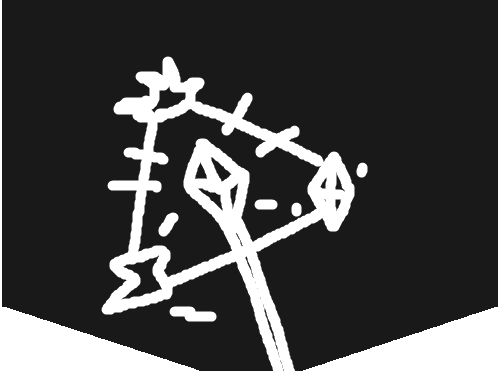
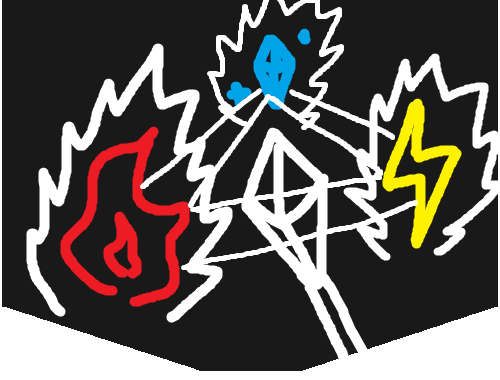
添加若干卡牌

Changed region(s): [[0.03, 0.0, 1.0, 0.9842]]

diff --git a/src/main/java/hatmagicianmod/cards/MorningAnger.java b/src/main/java/hatmagicianmod/cards/MorningAnger.java
@@ -14,6 +14,7 @@ import com.megacrit.cardcrawl.monsters.AbstractMonster;
 import com.megacrit.cardcrawl.powers.AbstractPower;
 import com.megacrit.cardcrawl.powers.VulnerablePower;
 import hatmagicianmod.helpers.ModHelper;
+import hatmagicianmod.powers.TempStrengthPower;
 
 import java.util.ArrayList;
 
@@ -29,7 +30,7 @@ public class MorningAnger extends CustomCard {
         String name = "MorningAnger";
         ID = ModHelper.makeID(name);
         CARD_STRINGS = CardCrawlGame.languagePack.getCardStrings(ID);
-        IMG_PATH = ModHelper.makeCardImgPath(TYPE, "Beta");
+        IMG_PATH = ModHelper.makeCardImgPath(TYPE, name);
     }
 
     public MorningAnger() {
@@ -53,7 +54,7 @@ public class MorningAnger extends CustomCard {
         ArrayList<AbstractPower> tmp_list = new ArrayList<>();
 
         for (AbstractPower p : player.powers) {
-            if (p.ID.equals(ModHelper.makeID("TempStrengthPower"))) {
+            if (p.ID.equals(TempStrengthPower.POWER_ID)) {
                 p.amount = -p.amount;
                 tmp_list.add(p);
             }
@@ -73,7 +74,7 @@ public class MorningAnger extends CustomCard {
         ArrayList<AbstractPower> tmp_list = new ArrayList<>();
 
         for (AbstractPower p : player.powers) {
-            if (p.ID.equals(ModHelper.makeID("TempStrengthPower"))) {
+            if (p.ID.equals(TempStrengthPower.POWER_ID)) {
                 p.amount = -p.amount;
                 tmp_list.add(p);
             }

diff --git a/src/main/java/hatmagicianmod/cards/SleepTalk.java b/src/main/java/hatmagicianmod/cards/SleepTalk.java
@@ -13,6 +13,7 @@ import com.megacrit.cardcrawl.powers.AbstractPower;
 import com.megacrit.cardcrawl.vfx.combat.ShockWaveEffect;
 import hatmagicianmod.characters.MyCharacter;
 import hatmagicianmod.helpers.ModHelper;
+import hatmagicianmod.powers.TempStrengthPower;
 
 import java.util.ArrayList;
 
@@ -30,7 +31,7 @@ public class SleepTalk extends CustomCard {
         String name = "SleepTalk";
         ID = ModHelper.makeID(name);
         CARD_STRINGS = CardCrawlGame.languagePack.getCardStrings(ID);
-        IMG_PATH = ModHelper.makeCardImgPath(TYPE, "Beta");
+        IMG_PATH = ModHelper.makeCardImgPath(TYPE, name);
     }
 
     public SleepTalk() {
@@ -55,7 +56,7 @@ public class SleepTalk extends CustomCard {
         ArrayList<AbstractPower> tmp_list = new ArrayList<>();
 
         for (AbstractPower p : player.powers) {
-            if (p.ID.equals(ModHelper.makeID("TempStrengthPower"))) {
+            if (p.ID.equals(TempStrengthPower.POWER_ID)) {
                 p.amount = -p.amount;
                 tmp_list.add(p);
             }
@@ -74,7 +75,7 @@ public class SleepTalk extends CustomCard {
         ArrayList<AbstractPower> tmp_list = new ArrayList<>();
 
         for (AbstractPower p : player.powers) {
-            if (p.ID.equals(ModHelper.makeID("TempStrengthPower"))) {
+            if (p.ID.equals(TempStrengthPower.POWER_ID)) {
                 p.amount = -p.amount;
                 tmp_list.add(p);
             }

diff --git a/src/main/java/hatmagicianmod/actions/RapidColdAction.java b/src/main/java/hatmagicianmod/actions/RapidColdAction.java
@@ -59,10 +59,10 @@ public class RapidColdAction extends AbstractGameAction {
                 Iterator<AbstractCard> c = this.p.exhaustPile.group.iterator();
 
                 while(c.hasNext()) {
-                    AbstractCard derp = (AbstractCard)c.next();
-                    if (derp.cardID.equals("Exhume") || !Charge.checkCardTag(derp)) {
+                    AbstractCard cache_c = (AbstractCard)c.next();
+                    if (!Charge.checkCardTag(cache_c)) {
                         c.remove();
-                        this.cache_cards.add(derp);
+                        this.cache_cards.add(cache_c);
                     }
                 }
 

diff --git a/src/main/java/hatmagicianmod/cards/BlearyEyed.java b/src/main/java/hatmagicianmod/cards/BlearyEyed.java
@@ -22,14 +22,14 @@ public class BlearyEyed extends CustomCard {
         String name = "BlearyEyed";
         ID = ModHelper.makeID(name);
         CARD_STRINGS = CardCrawlGame.languagePack.getCardStrings(ID);
-        IMG_PATH = ModHelper.makeCardImgPath(TYPE, "Beta");
+        IMG_PATH = ModHelper.makeCardImgPath(TYPE, name);
     }
 
     public BlearyEyed() {
         super(ID, CARD_STRINGS.NAME, IMG_PATH, COST, CARD_STRINGS.DESCRIPTION, TYPE, ModHelper.color(), CardRarity.UNCOMMON, CardTarget.SELF);
         this.tags.add(MyCharacter.PlayerCardTags.HAT_MAGICIAN_SLEEP);
         this.cardsToPreview = new IsSleep();
-        this.magicNumber = this.baseMagicNumber = 2;
+        this.magicNumber = this.baseMagicNumber = 1;
     }
 
     @Override
@@ -42,6 +42,6 @@ public class BlearyEyed extends CustomCard {
 
     @Override
     public void use(AbstractPlayer p, AbstractMonster m) {
-        this.addToBot(new DrawCardAction(2, new BlearyEyedAction(this.magicNumber)));
+        this.addToBot(new DrawCardAction(this.magicNumber, new BlearyEyedAction(2)));
     }
 }

diff --git a/src/main/java/hatmagicianmod/cards/Kite.java b/src/main/java/hatmagicianmod/cards/Kite.java
@@ -29,6 +29,7 @@ public class Kite extends CustomCard {
         super(ID, CARD_STRINGS.NAME, IMG_PATH, COST, CARD_STRINGS.DESCRIPTION, TYPE, ModHelper.color(), CardRarity.COMMON, CardTarget.SELF);
         this.cardsToPreview = new BlankBrand();
         this.block = this.baseBlock = 6;
+        this.magicNumber = this.baseMagicNumber = 1;
     }
 
     @Override
@@ -43,6 +44,6 @@ public class Kite extends CustomCard {
     public void use(AbstractPlayer p, AbstractMonster m) {
         this.addToBot(new GainBlockAction(p, this.block));
         AbstractCard card = new BlankBrand();
-        this.addToBot(new MakeTempCardInHandAction(card));
+        this.addToBot(new MakeTempCardInHandAction(card, this.magicNumber));
     }
 }

diff --git a/src/main/java/hatmagicianmod/cards/Doze.java b/src/main/java/hatmagicianmod/cards/Doze.java
@@ -23,7 +23,7 @@ public class Doze extends CustomCard {
         String name = "Doze";
         ID = ModHelper.makeID(name);
         CARD_STRINGS = CardCrawlGame.languagePack.getCardStrings(ID);
-        IMG_PATH = ModHelper.makeCardImgPath(TYPE, "Beta");
+        IMG_PATH = ModHelper.makeCardImgPath(TYPE, name);
     }
 
     public Doze() {

diff --git a/src/main/java/hatmagicianmod/cards/Improvise.java b/src/main/java/hatmagicianmod/cards/Improvise.java
@@ -25,7 +25,7 @@ public class Improvise extends CustomCard {
         String name = "Improvise";
         ID = ModHelper.makeID(name);
         CARD_STRINGS = CardCrawlGame.languagePack.getCardStrings(ID);
-        IMG_PATH = ModHelper.makeCardImgPath(TYPE, "Beta");
+        IMG_PATH = ModHelper.makeCardImgPath(TYPE, name);
     }
 
     public Improvise() {

diff --git a/src/main/java/hatmagicianmod/cards/IsSleep.java b/src/main/java/hatmagicianmod/cards/IsSleep.java
@@ -20,7 +20,7 @@ public class IsSleep extends CustomCard {
         String name = "IsSleep";
         ID = ModHelper.makeID(name);
         CARD_STRINGS = CardCrawlGame.languagePack.getCardStrings(ID);
-        IMG_PATH = ModHelper.makeCardImgPath(TYPE, "Beta");
+        IMG_PATH = ModHelper.makeCardImgPath(TYPE, name);
     }
 
     public IsSleep() {

diff --git a/src/main/java/hatmagicianmod/cards/Nightmare.java b/src/main/java/hatmagicianmod/cards/Nightmare.java
@@ -22,7 +22,7 @@ public class Nightmare extends CustomCard {
         String name = "Nightmare";
         ID = ModHelper.makeID(name);
         CARD_STRINGS = CardCrawlGame.languagePack.getCardStrings(ID);
-        IMG_PATH = ModHelper.makeCardImgPath(TYPE, "Beta");
+        IMG_PATH = ModHelper.makeCardImgPath(TYPE, name);
     }
 
     public Nightmare() {

diff --git a/src/main/java/hatmagicianmod/cards/SweetDream.java b/src/main/java/hatmagicianmod/cards/SweetDream.java
@@ -22,7 +22,7 @@ public class SweetDream extends CustomCard {
         String name = "SweetDream";
         ID = ModHelper.makeID(name);
         CARD_STRINGS = CardCrawlGame.languagePack.getCardStrings(ID);
-        IMG_PATH = ModHelper.makeCardImgPath(TYPE, "Beta");
+        IMG_PATH = ModHelper.makeCardImgPath(TYPE, name);
     }
 
     public SweetDream() {

diff --git a/src/main/java/hatmagicianmod/powers/SweetDreamPower.java b/src/main/java/hatmagicianmod/powers/SweetDreamPower.java
@@ -52,8 +52,8 @@ public class SweetDreamPower extends AbstractPower {
     public void atStartOfTurnPostDraw() {
         super.atStartOfTurnPostDraw();
         this.flash();
+        this.addToBot(new DrawCardAction(this.amount));
         AbstractCard c = new IsSleep();
         this.addToBot(new MakeTempCardInDrawPileAction(c, 1, true, true));
-        this.addToBot(new DrawCardAction(this.amount));
     }
 }

diff --git a/src/main/java/hatmagicianmod/powers/YawnPower.java b/src/main/java/hatmagicianmod/powers/YawnPower.java
@@ -49,7 +49,7 @@ public class YawnPower extends AbstractPower {
     public void onApplyPower(AbstractPower power, AbstractCreature target, AbstractCreature source) {
         super.onApplyPower(power, target, source);
         if (power.amount < 0 && power.owner.isPlayer) {
-            if (power.ID.equals("Strength") || power.ID.equals(ModHelper.makeID("TempStrengthPower"))) {
+            if (power.ID.equals("Strength") || power.ID.equals(TempStrengthPower.POWER_ID)) {
                 this.flash();
                 this.addToTop(new HealAction(this.owner, this.owner, -power.amount));
             }